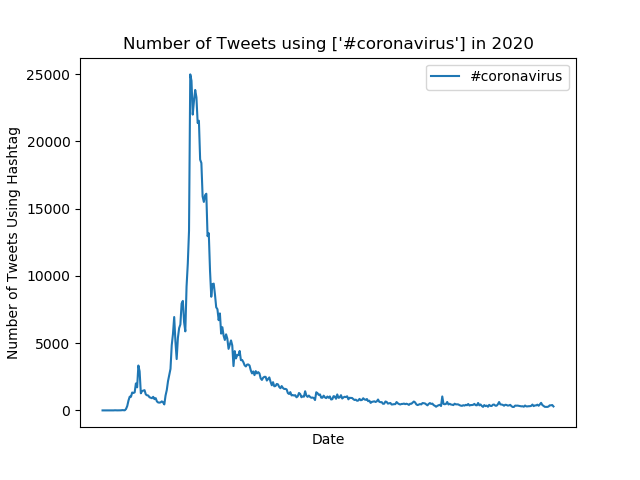
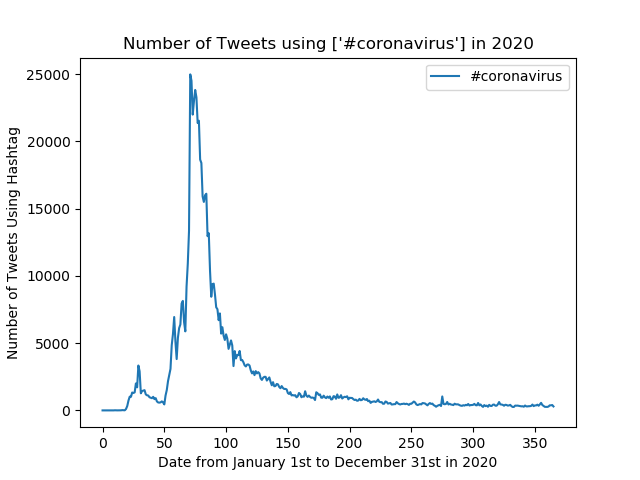
updated again

Changed region(s): [[0.25, 0.9062, 0.7812, 0.9688], [0.8125, 0.9062, 0.875, 0.9375], [0.1562, 0.9062, 0.1875, 0.9375]]

diff --git a/src/alternative_reduce.py b/src/alternative_reduce.py
@@ -1,0 +1,45 @@
+#!/usr/bin/env python3
+import matplotlib
+matplotlib.use('Agg')
+
+# command line args
+import argparse
+parser = argparse.ArgumentParser()
+parser.add_argument('--keys', nargs='+', required=True)
+args = parser.parse_args()
+
+# imports
+import os
+import json
+from collections import Counter,defaultdict
+import matplotlib.pyplot as plt
+import matplotlib.dates as mdates
+import glob
+import datetime
+import numpy as np
+
+data = defaultdict(lambda: defaultdict(list))
+inputs = glob.glob('outputs/geoTwitter*.country')
+fig, ax = plt.subplots()
+
+for key in args.keys:
+    total = defaultdict(lambda: Counter())
+    y_axis = []
+    for path in sorted(inputs):
+        with open(path) as f:
+            tmp = json.load(f)
+            total = 0
+            try:
+                for k in tmp[key]:
+                    total += tmp[key][k]
+            except:
+                pass
+            y_axis.append(total)
+    x_axis = np.arange(len(y_axis))
+    ax.plot(x_axis, y_axis, label = key)
+
+ax.set_title("Number of Tweets using " + str(args.keys)+ " in 2020")
+ax.set_ylabel("Number of Tweets Using Hashtag")
+ax.set_xlabel("Date from January 1st to December 31st in 2020")
+plt.legend()
+plt.savefig('hashtag_comparison_' + '_'.join(args.keys) + '.png')
